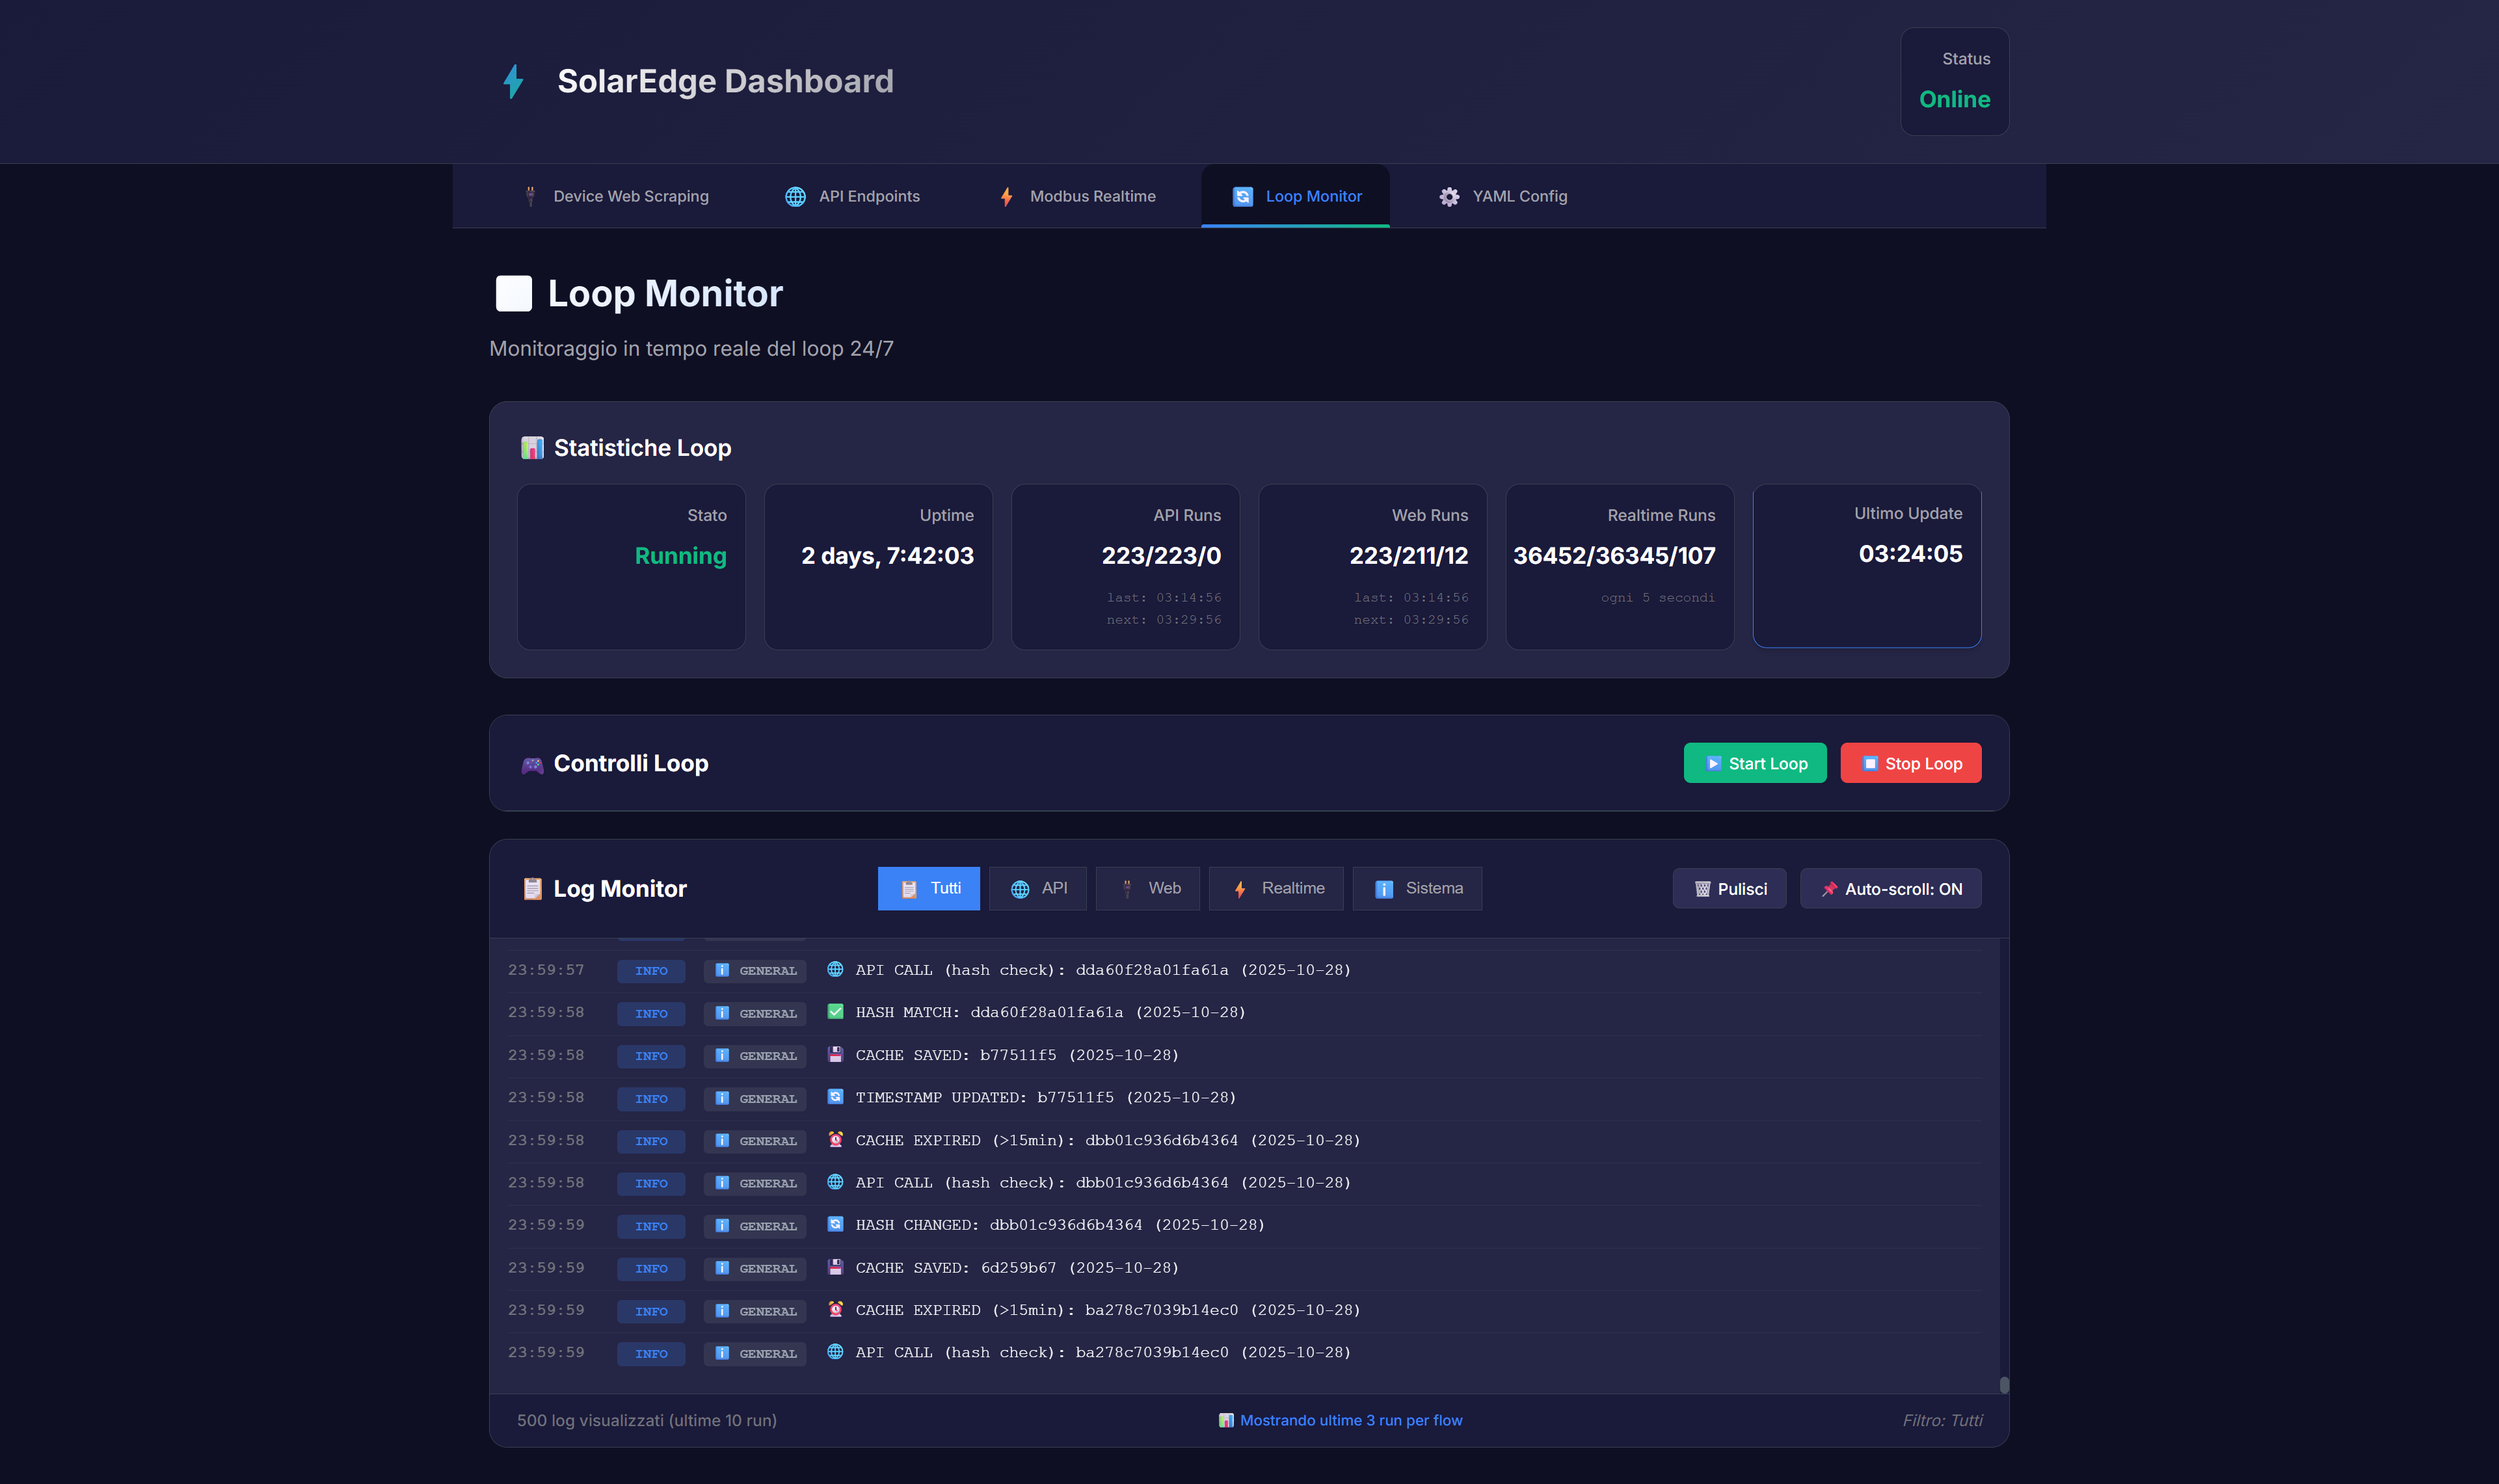
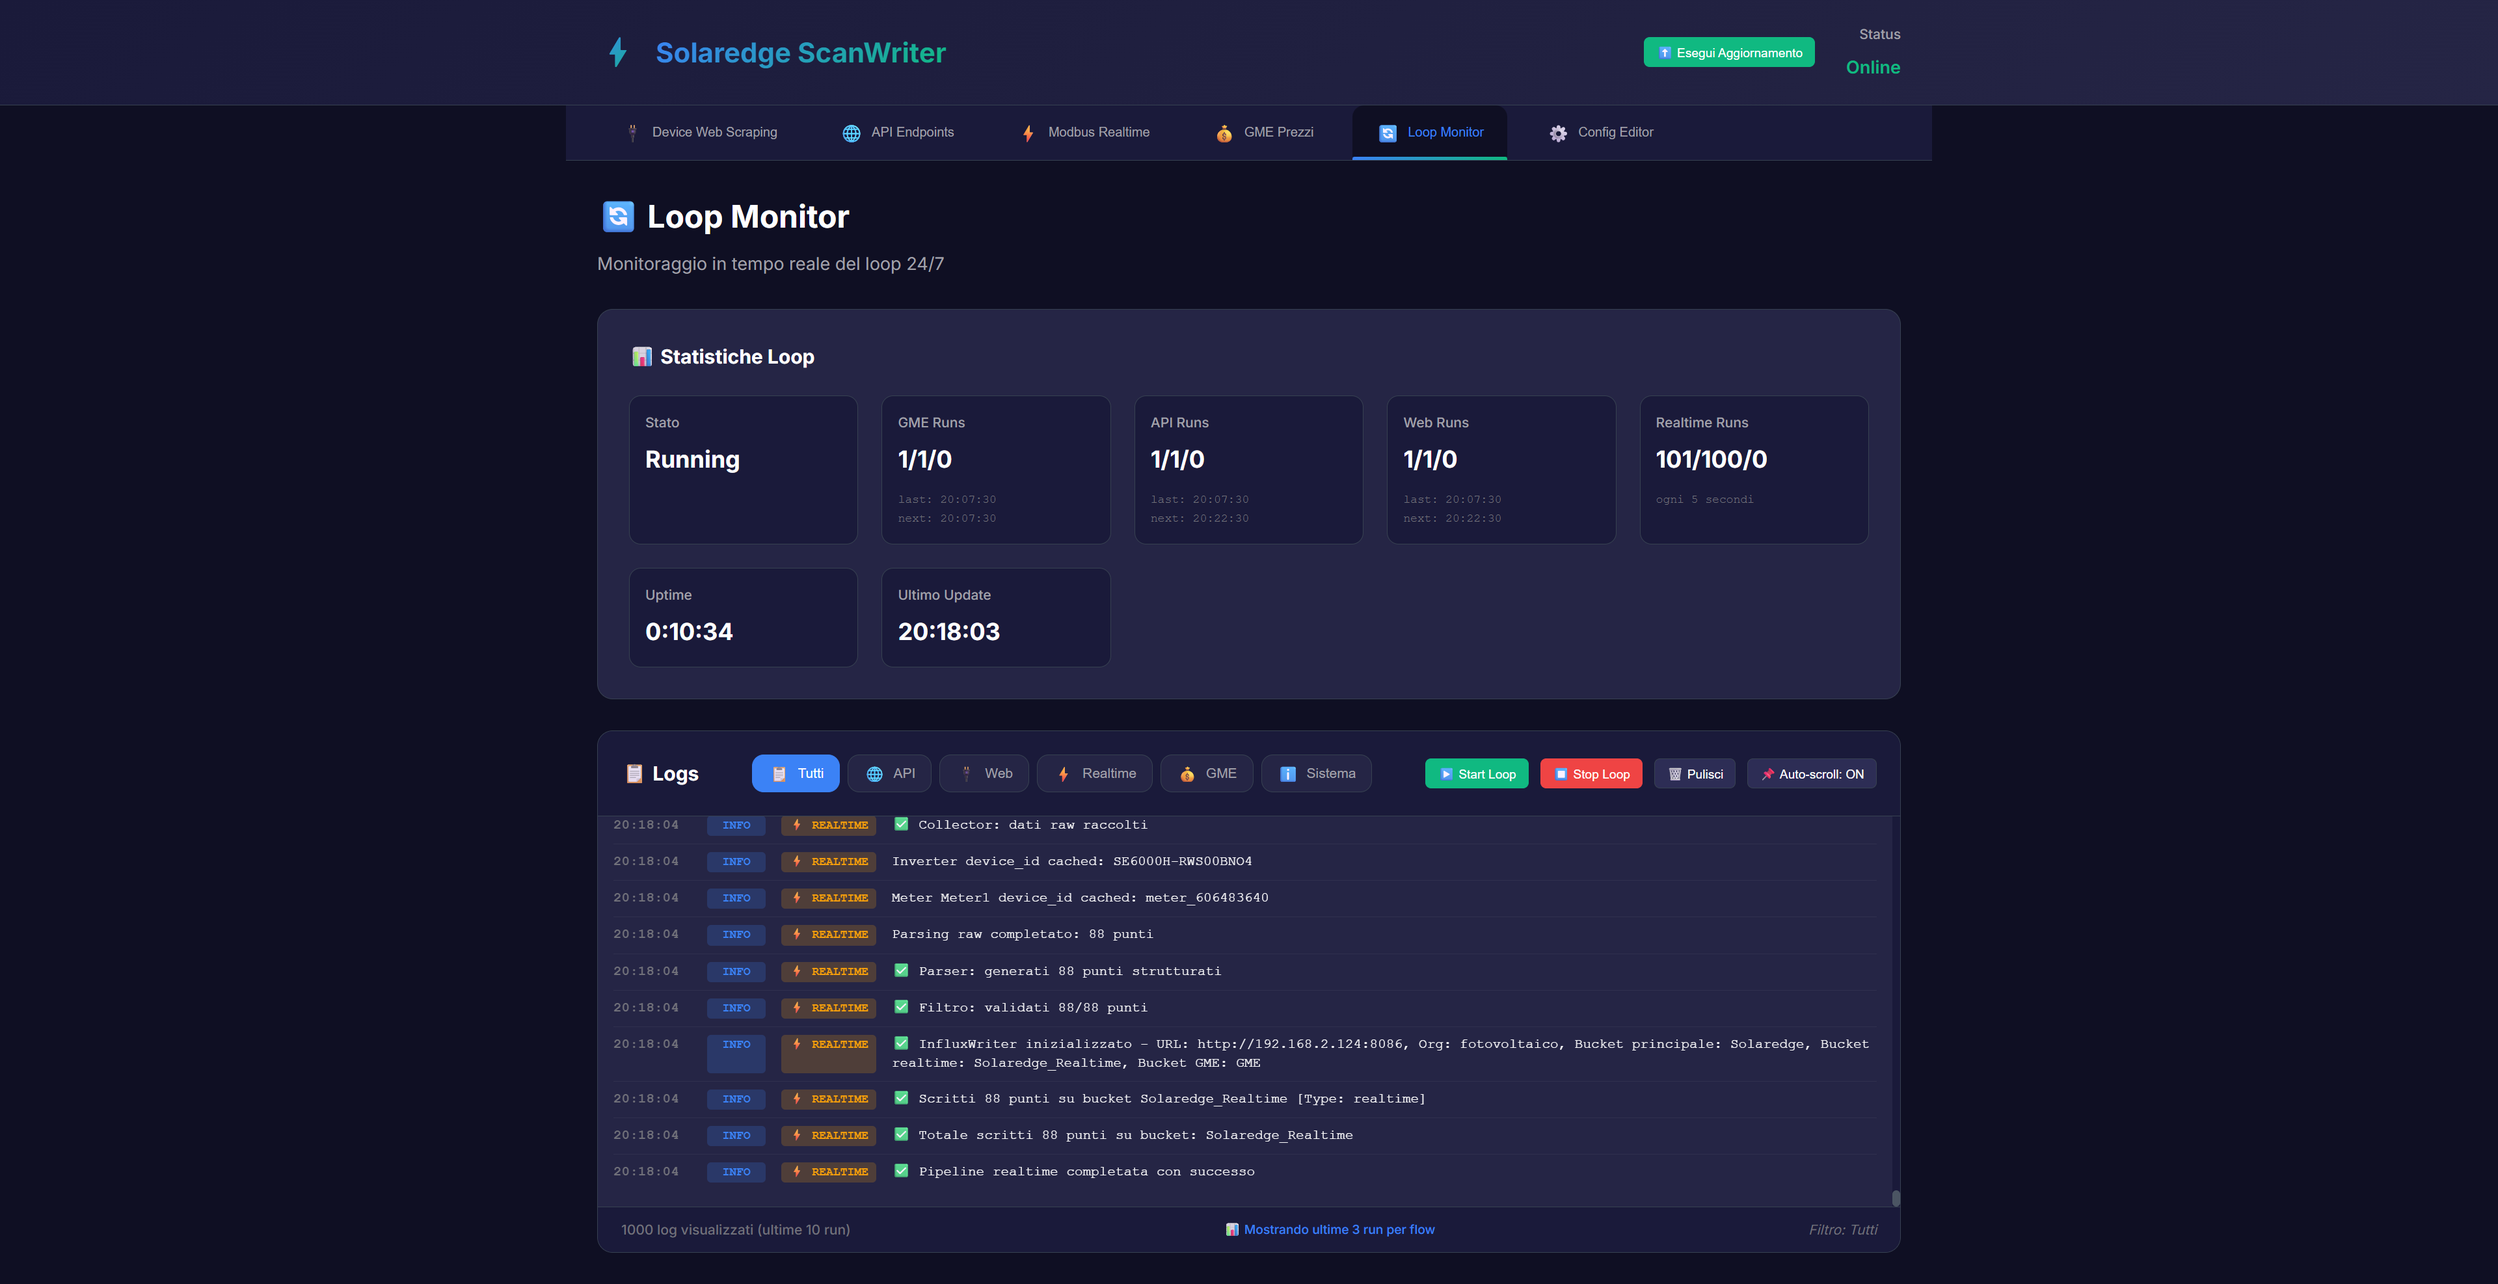
docs: Improve README line wrapping and update screenshots
- Reflow README.md paragraphs for better readability and consistent line length
- Update "loop monitor.png" screenshot with latest UI changes
- Update "modbus endpoints.png" screenshot with current interface state
- Improve text formatting throughout documentation for better visual presentation

diff --git a/README.md b/README.md
@@ -2,8 +2,8 @@
 
 **Sistema completo di monitoraggio per impianti fotovoltaici SolarEdge**
 
-Raccogli, analizza e visualizza i dati del tuo impianto fotovoltaico con dashboard Grafana 
-professionali. Gestione semplice tramite interfaccia web, nessuna configurazione manuale richiesta.
+Raccogli, analizza e visualizza i dati del tuo impianto fotovoltaico con dashboard Grafana professionali. 
+Gestione semplice tramite interfaccia web, nessuna configurazione manuale richiesta.
 
 ![Python](https://img.shields.io/badge/Python-3.11+-blue.svg)
 ![License](https://img.shields.io/badge/License-MIT-green.svg)
@@ -160,9 +160,9 @@ professionali. Gestione semplice tramite interfaccia web, nessuna configurazione
 └─────────────────────────────────────────────────────────────┘
 ```
 
-Il sistema è orchestrato tramite **Flows** (situati in `flows/`), che coordinano le operazioni 
-di raccolta, parsing e scrittura per ogni sorgente dati (API, Web, Realtime). `main.py` agisce 
-da entry point per avviare i vari flow.
+Il sistema è orchestrato tramite **Flows** (situati in `flows/`), che coordinano le operazioni di raccolta, 
+parsing e scrittura per ogni sorgente dati (API, Web, Realtime). `main.py` agisce da entry point per avviare 
+i vari flow.
 
 ## 📦 Requisiti
 
@@ -187,8 +187,8 @@ da entry point per avviare i vari flow.
 
 ### ⚠ Requisito Web Scraping
 
-Per raccogliere dati tramite web scraping (optimizer, inverter, meter, sensori meteo), devi avere 
-**abilitata la visualizzazione Charts** nel portale SolarEdge.
+Per raccogliere dati tramite web scraping (optimizer, inverter, meter, sensori meteo), devi avere **abilitata 
+la visualizzazione Charts** nel portale SolarEdge.
 
 **Come abilitare**:
 
@@ -197,8 +197,8 @@ Per raccogliere dati tramite web scraping (optimizer, inverter, meter, sensori m
 3. Una volta abilitata, potrai visualizzare i grafici dettagliati di tutti i device nel portale web
 4. Solo a quel punto il web scraping potrà raccogliere questi dati
 
-**Nota**: Senza Charts abilitato, il web scraping non funzionerà per nessun device. 
-Puoi comunque usare API e Modbus per raccogliere dati.
+**Nota**: Senza Charts abilitato, il web scraping non funzionerà per nessun device. Puoi comunque usare API 
+e Modbus per raccogliere dati.
 
 ## 🚀 Installazione
 
@@ -291,8 +291,8 @@ Questo comando:
 - 📝 Rileva automaticamente tutti i device (inverter, optimizer, meter, sensori)
 - 💾 Genera il file `config/sources/web_endpoints.yaml`
 
-**⚠ Importante**: Se non hai Charts abilitato, lo scan creerà un file yaml vuoto ma valido. 
-Potrai comunque usare API e Modbus.
+**⚠ Importante**: Se non hai Charts abilitato, lo scan creerà un file yaml vuoto ma valido. Potrai comunque 
+usare API e Modbus.
 
 #### 3. Avvia Servizio
 
@@ -300,9 +300,8 @@ Potrai comunque usare API e Modbus.
 sudo systemctl enable --now solaredge-scanwriter
 ```
 
-Questo avvia GUI Dashboard (`http://localhost:8092` o IP della macchina), loop di raccolta dati 
-e scrittura su InfluxDB. Dalla GUI è possibile modificare manualmente tutti i file di 
-configurazione tramite il Config Editor.
+Questo avvia GUI Dashboard (`http://localhost:8092` o IP della macchina), loop di raccolta dati e scrittura 
+su InfluxDB. Dalla GUI è possibile modificare manualmente tutti i file di configurazione tramite il Config Editor.
 
 #### 4. Accedi a Grafana
 
@@ -370,9 +369,8 @@ La configurazione di default è ottimizzata per la dashboard Grafana inclusa:
 
 ### Personalizzazione
 
-Accedi alla GUI (`http://localhost:8092` o IP della macchina) per abilitare/disabilitare endpoint 
-aggiuntivi secondo le tue esigenze. Tutti i 22 endpoint API sono disponibili per analisi 
-personalizzate.
+Accedi alla GUI (`http://localhost:8092` o IP della macchina) per abilitare/disabilitare endpoint aggiuntivi 
+secondo le tue esigenze. Tutti i 22 endpoint API sono disponibili per analisi personalizzate.
 
 **Quando personalizzare**:
 
@@ -525,9 +523,8 @@ cd /opt/Solaredge_ScanWriter
 - ✅ **Importa automaticamente dashboard Grafana aggiornata**
 
 **⚠ Importante - Dashboard Personalizzate**:
-Se hai creato dashboard personalizzate in Grafana, salvale con un **nome diverso** da "SolarEdge". 
-Lo script `update.sh` sovrascrive automaticamente la dashboard "SolarEdge" con la versione 
-aggiornata dal repository.
+Se hai creato dashboard personalizzate in Grafana, salvale con un **nome diverso** da "SolarEdge". Lo script 
+`update.sh` sovrascrive automaticamente la dashboard "SolarEdge" con la versione aggiornata dal repository.
 
 **Esempio**:
 
